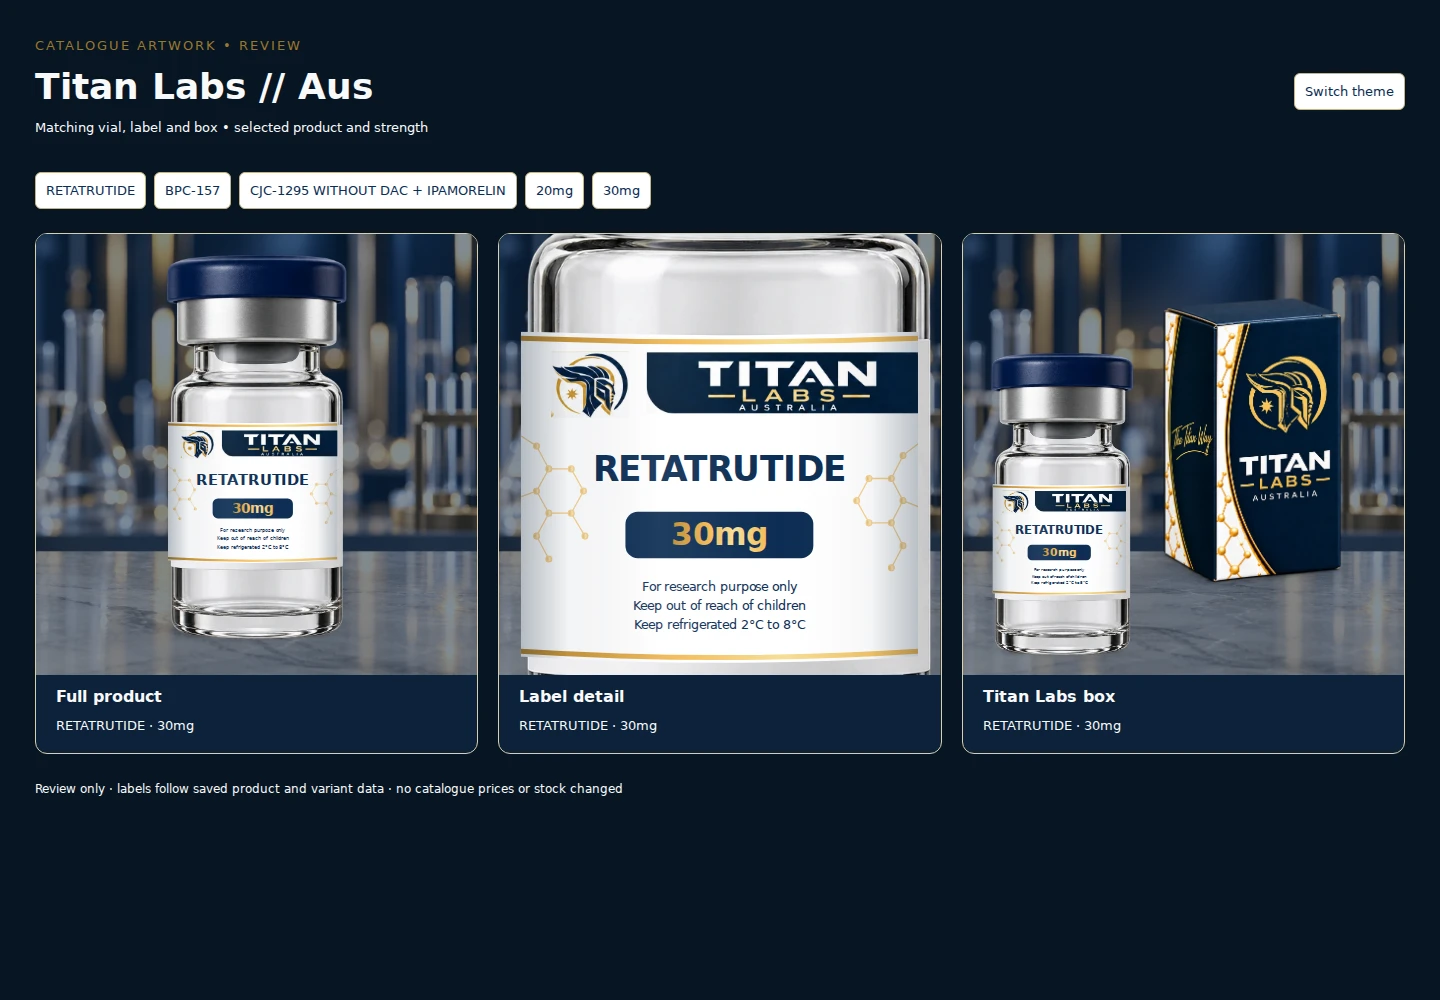
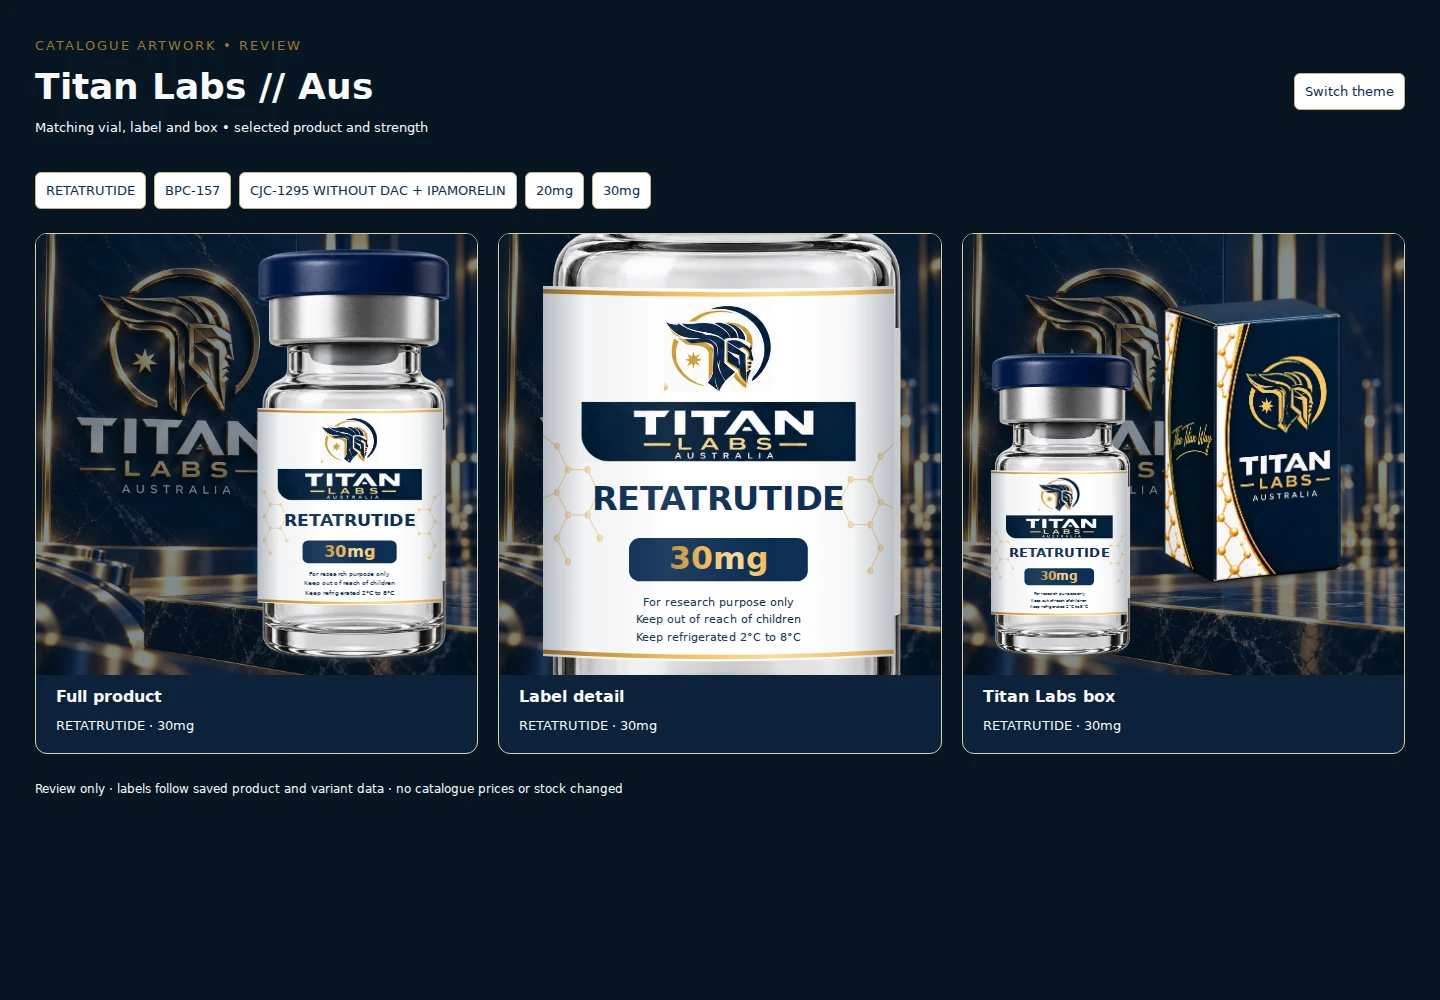
Enlarge Range vial labels and refresh branded navy-gold display

Changed region(s): [[0.0, 0.217, 1.0, 0.682]]

diff --git a/src/components/RangeProductArt.tsx b/src/components/RangeProductArt.tsx
@@ -67,7 +67,7 @@ export function RangeLabelArt({
   const { navy, gold } = RANGE_PALETTE;
   return (
     <svg
-      viewBox="0 0 550 450"
+      viewBox="0 0 550 600"
       width="100%"
       height="100%"
       preserveAspectRatio="none"
@@ -90,18 +90,24 @@ export function RangeLabelArt({
           <stop offset="1" stopColor="#081c31" stopOpacity=".28" />
         </linearGradient>
         <clipPath id={`${id}-paper`}>
-          <path d="M0 0Q275 10 550 0V440Q275 457 0 440Z" />
+          <path d="M0 0Q275 10 550 0V590Q275 607 0 590Z" />
         </clipPath>
       </defs>
       <g clipPath={`url(#${id}-paper)`}>
-        <rect width="550" height="450" fill="white" />
+        <rect width="550" height="600" fill="white" />
         <path
-          d="M0 9Q275 19 550 9M0 433Q275 450 550 433"
+          d="M0 9Q275 19 550 9M0 583Q275 600 550 583"
           fill="none"
           stroke={`url(#${id}-gold)`}
           strokeWidth="7"
         />
-        <g stroke={gold} strokeWidth="1.7" fill="none" opacity=".65">
+        <g
+          stroke={gold}
+          strokeWidth="1.7"
+          fill="none"
+          opacity=".5"
+          transform="translate(0 70) scale(1 1.2)"
+        >
           <path d="M0 141L22 155L39 186L22 216L0 224M39 186H70L87 216L70 246H39L22 216M39 246L22 277L39 308M70 246L89 277M550 152L529 168L513 199L529 229L550 237M513 199H482L465 229L482 259H513L529 229M513 259L529 290L513 320" />
           {[
             [22, 155],
@@ -135,30 +141,30 @@ export function RangeLabelArt({
         </g>
         <MasterCrop
           box="340 641 210 174"
-          x={42}
-          y={27}
-          width={108}
-          height={90}
+          x={190}
+          y={28}
+          width={170}
+          height={141}
         />
         <MasterCrop
           box="583 644 716 158"
-          x={174}
-          y={28}
-          width={376}
-          height={83}
+          x={60}
+          y={185}
+          width={430}
+          height={95}
         />
         {lines.map((line, i) => (
           <text
             key={i}
             x="275"
-            y={lines.length > 1 ? 174 + i * 43 : 202}
+            y={lines.length > 1 ? 331 + i * 43 : 357}
             textAnchor="middle"
             fill={navy}
             fontFamily="Arial, sans-serif"
             fontWeight="900"
-            fontSize={lines.length > 1 ? 35 : 47}
+            fontSize={lines.length > 1 ? 38 : 52}
             textLength={
-              line.length > (lines.length > 1 ? 19 : 15) ? 400 : undefined
+              line.length > (lines.length > 1 ? 19 : 15) ? 430 : undefined
             }
             lengthAdjust="spacingAndGlyphs"
           >
@@ -167,15 +173,15 @@ export function RangeLabelArt({
         ))}
         {strength ? (
           <>
-            <rect x="145" y="244" width="260" height="63" rx="17" fill={navy} />
+            <rect x="135" y="402" width="280" height="69" rx="17" fill={navy} />
             <text
               x="275"
-              y="289"
+              y="451"
               textAnchor="middle"
               fill={`url(#${id}-gold)`}
               fontFamily="Arial, sans-serif"
               fontWeight="800"
-              fontSize={strength.length > 10 ? 29 : 43}
+              fontSize={strength.length > 10 ? 32 : 49}
               textLength={strength.length > 14 ? 225 : undefined}
               lengthAdjust="spacingAndGlyphs"
             >
@@ -186,22 +192,22 @@ export function RangeLabelArt({
         <g
           fill={navy}
           fontFamily="Arial, sans-serif"
-          fontSize="17"
+          fontSize="18"
           textAnchor="middle"
         >
-          <text x="275" y="351">
+          <text x="275" y="510">
             For research purpose only
           </text>
-          <text x="275" y="377">
+          <text x="275" y="538">
             Keep out of reach of children
           </text>
-          <text x="275" y="403">
+          <text x="275" y="566">
             Keep refrigerated 2°C to 8°C
           </text>
         </g>
         <rect
           width="550"
-          height="450"
+          height="600"
           fill={`url(#${id}-curve)`}
           pointerEvents="none"
         />
@@ -228,11 +234,11 @@ function Vial({
     <svg x={x} y={y} width={size} height={size} viewBox="0 0 1280 1280">
       <image href={`${root}vial-blank.webp`} width="1280" height="1280" />
       <svg
-        x="366"
-        y="565"
-        width="524"
-        height="438"
-        viewBox="0 0 550 450"
+        x="360"
+        y="510"
+        width="536"
+        height="575"
+        viewBox="0 0 550 600"
         preserveAspectRatio="none"
       >
         <RangeLabelArt product={product} variant={variant} />
@@ -273,7 +279,7 @@ export function RangeProductArt({
       style={{ display: "block", overflow: "hidden" }}
     >
       <image
-        href={`${root}laboratory-scene.webp`}
+        href={`${root}branded-display-scene.webp`}
         width={thumbnail ? 1200 : 1000}
         height={thumbnail ? 900 : 1000}
         preserveAspectRatio="xMidYMid slice"
@@ -289,9 +295,9 @@ export function RangeProductArt({
           <Vial
             product={product}
             variant={selected}
-            x={-580}
-            y={-750}
-            size={2200}
+            x={-435}
+            y={-640}
+            size={1900}
           />
         ) : view === "boxed" ? (
           <>
@@ -312,7 +318,13 @@ export function RangeProductArt({
             />
           </>
         ) : (
-          <Vial product={product} variant={selected} x={30} y={10} size={940} />
+          <Vial
+            product={product}
+            variant={selected}
+            x={220}
+            y={-5}
+            size={1000}
+          />
         )}
       </g>
     </svg>

diff --git a/docs/catalogue-v4/README.md b/docs/catalogue-v4/README.md
@@ -1,14 +1,15 @@
 # Matching Titan Labs Range labels and boxes
 
-Follow-up correction to PR #26, based on `review/light-theme` at `9d947694a95441ab10dd74f668267e16e3513a39`. Owner requested GitHub merge and will review/publish through Lovable. No deployment is authorized.
+Display-proportion follow-up to PR #27, based on `review/light-theme` at `eb4b2327624612bf6014d679c07fe82898ebee0c`. Owner requested GitHub merge and will review/publish through Lovable. No deployment is authorized.
 
 ## Changes
 
 - All products with primary catalogue section Range use one shared label design. New Range products inherit it automatically.
 - Product name and quantity come from the live product and selected variant, including mg, IU, ml and blend labels. Missing strengths stay blank; they are never guessed. Long product names wrap into two lines.
 - The label uses the navy/gold helmet and brand lettering directly from the owner's approved reference. The box photograph uses the gold-only helmet, white curved molecular band, navy field and gold detailing.
-- The front-facing artwork fills the vial's full physical paper label, with curved gold edges and cylindrical shading. Product name and strength are centred; the disclaimer is readable below.
-- Product pages show three selectable photographic thumbnails: Full product, Label detail (close-up on the vial), Titan Labs box. All three share the laboratory background and lighting, with theme-aware shading and captions below the thumbnails. Switching size resets the gallery to the full product and refreshes its strength.
+- The front-facing label now extends from near the glass shoulder to near the base (575px tall on the 1280px vial photo, previously 438px). The larger helmet and wordmark are stacked above the enlarged product name and strength. Curved gold edges and cylindrical shading remain. The disclaimer stays below.
+- The full vial is larger and positioned to the right of a new branded navy stone / champagne-gold display backdrop, based on the owner's older blue-and-white display reference. All three views reuse this same updated background.
+- Product pages show three selectable photographic thumbnails: Full product, Label detail (close-up on the vial), Titan Labs box. All three share the branded display background and lighting, with theme-aware shading and captions below the thumbnails. Switching size resets the gallery to the full product and refreshes its strength.
 - Catalogue cards, homepage Hot Products, related products, cart and checkout thumbnails use the same Range artwork. Pens, Equipment and exact-colour CMS photo rules retain their existing rendering.
 - Existing saved Range gallery photos are retained in CMS but ignored by the new coordinated set. No product records, prices, stock, orders, catalogue sections or saved photos were written.
 
@@ -32,6 +33,6 @@ These screenshots render the production artwork component in an isolated review 
 
 ## Asset and rollout notes
 
-The three shared WebP assets total approximately 516 KB, plus the shared laboratory background. Vial and box photographs were generated with the built-in image tool; SVG overlays supply accurate product text rather than regenerating every SKU. Prompt intent: isolated clear research vial with blank label and navy cap; isolated approved navy/white/gold carton on transparent background; empty softly blurred navy/gold laboratory and polished stone bench background plate. Reference source: `Gold-Only Helmet Emblems on Navy Boxes(1).png` provided by the owner. The approved master supplies the actual label helmet and wordmark via SVG crops. The box remains a generated photographic interpretation for visual approval, not manufacturing artwork or an exact vector logo master.
+The three shared WebP assets total approximately 516 KB, plus the shared branded display background. Vial and box photographs were generated with the built-in image tool; SVG overlays supply accurate product text rather than regenerating every SKU. Prompt intent: isolated clear research vial with blank label and navy cap; isolated approved navy/white/gold carton on transparent background; branded navy/gold stone display background plate, adapted from the owner's older bright-blue vial display screenshot. Reference source: `Gold-Only Helmet Emblems on Navy Boxes(1).png` provided by the owner. The approved master supplies the actual label helmet and wordmark via SVG crops. The box remains a generated photographic interpretation for visual approval, not manufacturing artwork or an exact vector logo master.
 
 Merge into `review/light-theme` as authorized by the owner. The owner controls Lovable review and publishing. No website deployment is included.
